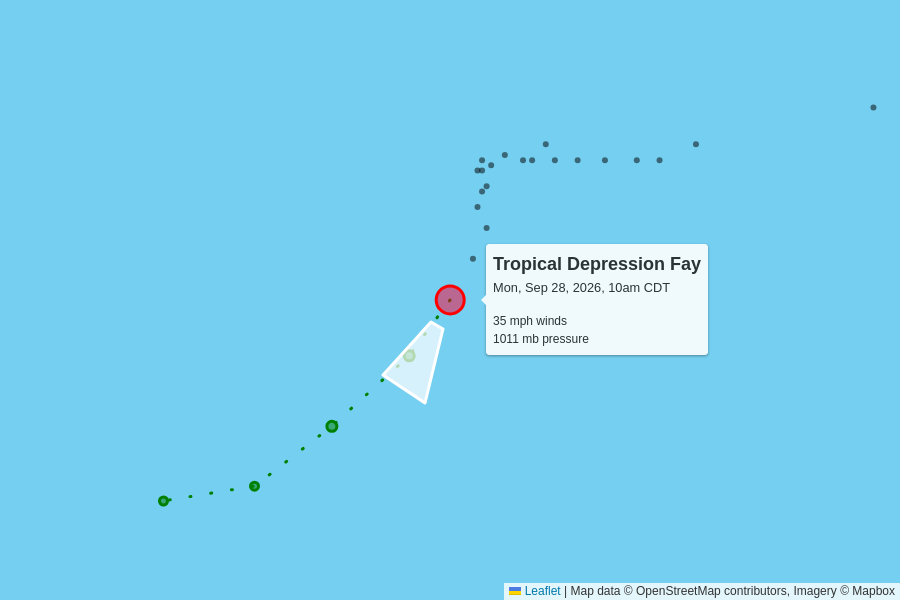
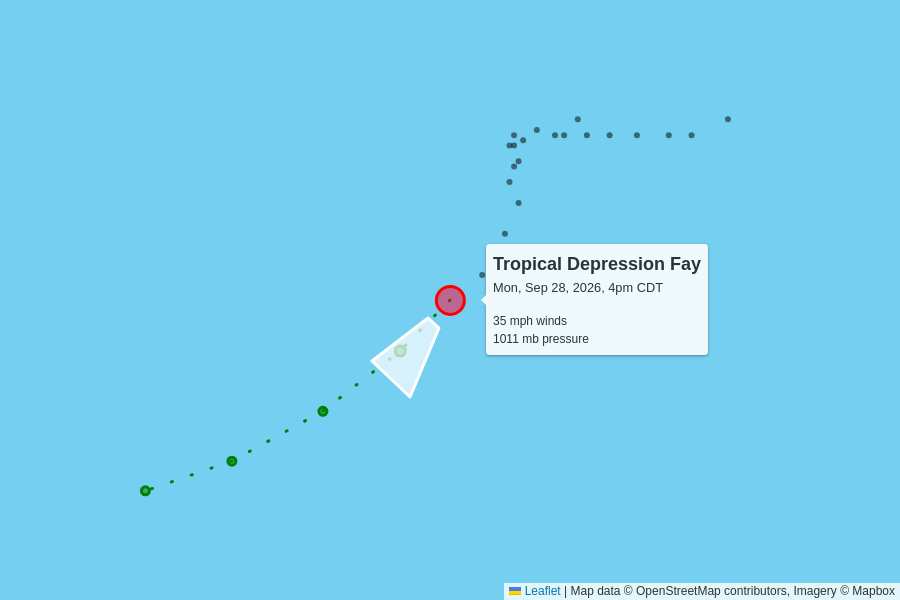
automatic update

diff --git a/docs/2026.html b/docs/2026.html
@@ -45,13 +45,13 @@
       <grid-container>
           <grid-row>
             <script type="text/json" id="storm_data_AL062026">
-              {"pressure":[{"timestamp":"2026-09-19T15:00:00.000Z","value":1009},{"timestamp":"2026-09-19T21:00:00.000Z","value":1007},{"timestamp":"2026-09-20T03:00:00.000Z","value":1007},{"timestamp":"2026-09-20T09:00:00.000Z","value":1004},{"timestamp":"2026-09-20T15:00:00.000Z","value":1004},{"timestamp":"2026-09-20T21:00:00.000Z","value":999},{"timestamp":"2026-09-21T03:00:00.000Z","value":995},{"timestamp":"2026-09-21T09:00:00.000Z","value":997},{"timestamp":"2026-09-21T15:00:00.000Z","value":1000},{"timestamp":"2026-09-21T21:00:00.000Z","value":1004},{"timestamp":"2026-09-22T03:00:00.000Z","value":1008},{"timestamp":"2026-09-22T09:00:00.000Z","value":1009},{"timestamp":"2026-09-22T15:00:00.000Z","value":1010},{"timestamp":"2026-09-22T21:00:00.000Z","value":1011},{"timestamp":"2026-09-23T21:00:00.000Z","value":1011},{"timestamp":"2026-09-24T03:00:00.000Z","value":1010},{"timestamp":"2026-09-24T09:00:00.000Z","value":1010},{"timestamp":"2026-09-24T15:00:00.000Z","value":1005},{"timestamp":"2026-09-24T21:00:00.000Z","value":1005},{"timestamp":"2026-09-25T03:00:00.000Z","value":1005},{"timestamp":"2026-09-25T09:00:00.000Z","value":1004},{"timestamp":"2026-09-25T15:00:00.000Z","value":1002},{"timestamp":"2026-09-25T21:00:00.000Z","value":1004},{"timestamp":"2026-09-26T03:00:00.000Z","value":1006},{"timestamp":"2026-09-26T09:00:00.000Z","value":1009},{"timestamp":"2026-09-26T15:00:00.000Z","value":1009},{"timestamp":"2026-09-26T21:00:00.000Z","value":1009},{"timestamp":"2026-09-27T03:00:00.000Z","value":1010},{"timestamp":"2026-09-27T09:00:00.000Z","value":1010},{"timestamp":"2026-09-27T15:00:00.000Z","value":1010},{"timestamp":"2026-09-27T21:00:00.000Z","value":1011},{"timestamp":"2026-09-28T03:00:00.000Z","value":1012},{"timestamp":"2026-09-28T09:00:00.000Z","value":1012},{"timestamp":"2026-09-28T15:00:00.000Z","value":1011}],"wind":[{"timestamp":"2026-09-19T15:00:00.000Z","value":35},{"timestamp":"2026-09-19T21:00:00.000Z","value":35},{"timestamp":"2026-09-20T03:00:00.000Z","value":35},{"timestamp":"2026-09-20T09:00:00.000Z","value":45},{"timestamp":"2026-09-20T15:00:00.000Z","value":60},{"timestamp":"2026-09-20T21:00:00.000Z","value":65},{"timestamp":"2026-09-21T03:00:00.000Z","value":70},{"timestamp":"2026-09-21T09:00:00.000Z","value":65},{"timestamp":"2026-09-21T15:00:00.000Z","value":50},{"timestamp":"2026-09-21T21:00:00.000Z","value":45},{"timestamp":"2026-09-22T03:00:00.000Z","value":40},{"timestamp":"2026-09-22T09:00:00.000Z","value":40},{"timestamp":"2026-09-22T15:00:00.000Z","value":35},{"timestamp":"2026-09-22T21:00:00.000Z","value":35},{"timestamp":"2026-09-23T21:00:00.000Z","value":35},{"timestamp":"2026-09-24T03:00:00.000Z","value":40},{"timestamp":"2026-09-24T09:00:00.000Z","value":40},{"timestamp":"2026-09-24T15:00:00.000Z","value":50},{"timestamp":"2026-09-24T21:00:00.000Z","value":50},{"timestamp":"2026-09-25T03:00:00.000Z","value":50},{"timestamp":"2026-09-25T09:00:00.000Z","value":50},{"timestamp":"2026-09-25T15:00:00.000Z","value":60},{"timestamp":"2026-09-25T21:00:00.000Z","value":50},{"timestamp":"2026-09-26T03:00:00.000Z","value":40},{"timestamp":"2026-09-26T09:00:00.000Z","value":35},{"timestamp":"2026-09-26T15:00:00.000Z","value":35},{"timestamp":"2026-09-26T21:00:00.000Z","value":35},{"timestamp":"2026-09-27T03:00:00.000Z","value":35},{"timestamp":"2026-09-27T09:00:00.000Z","value":35},{"timestamp":"2026-09-27T15:00:00.000Z","value":35},{"timestamp":"2026-09-27T21:00:00.000Z","value":35},{"timestamp":"2026-09-28T03:00:00.000Z","value":30},{"timestamp":"2026-09-28T09:00:00.000Z","value":35},{"timestamp":"2026-09-28T15:00:00.000Z","value":35}]}
+              {"pressure":[{"timestamp":"2026-09-19T15:00:00.000Z","value":1009},{"timestamp":"2026-09-19T21:00:00.000Z","value":1007},{"timestamp":"2026-09-20T03:00:00.000Z","value":1007},{"timestamp":"2026-09-20T09:00:00.000Z","value":1004},{"timestamp":"2026-09-20T15:00:00.000Z","value":1004},{"timestamp":"2026-09-20T21:00:00.000Z","value":999},{"timestamp":"2026-09-21T03:00:00.000Z","value":995},{"timestamp":"2026-09-21T09:00:00.000Z","value":997},{"timestamp":"2026-09-21T15:00:00.000Z","value":1000},{"timestamp":"2026-09-21T21:00:00.000Z","value":1004},{"timestamp":"2026-09-22T03:00:00.000Z","value":1008},{"timestamp":"2026-09-22T09:00:00.000Z","value":1009},{"timestamp":"2026-09-22T15:00:00.000Z","value":1010},{"timestamp":"2026-09-22T21:00:00.000Z","value":1011},{"timestamp":"2026-09-23T21:00:00.000Z","value":1011},{"timestamp":"2026-09-24T03:00:00.000Z","value":1010},{"timestamp":"2026-09-24T09:00:00.000Z","value":1010},{"timestamp":"2026-09-24T15:00:00.000Z","value":1005},{"timestamp":"2026-09-24T21:00:00.000Z","value":1005},{"timestamp":"2026-09-25T03:00:00.000Z","value":1005},{"timestamp":"2026-09-25T09:00:00.000Z","value":1004},{"timestamp":"2026-09-25T15:00:00.000Z","value":1002},{"timestamp":"2026-09-25T21:00:00.000Z","value":1004},{"timestamp":"2026-09-26T03:00:00.000Z","value":1006},{"timestamp":"2026-09-26T09:00:00.000Z","value":1009},{"timestamp":"2026-09-26T15:00:00.000Z","value":1009},{"timestamp":"2026-09-26T21:00:00.000Z","value":1009},{"timestamp":"2026-09-27T03:00:00.000Z","value":1010},{"timestamp":"2026-09-27T09:00:00.000Z","value":1010},{"timestamp":"2026-09-27T15:00:00.000Z","value":1010},{"timestamp":"2026-09-27T21:00:00.000Z","value":1011},{"timestamp":"2026-09-28T03:00:00.000Z","value":1012},{"timestamp":"2026-09-28T09:00:00.000Z","value":1012},{"timestamp":"2026-09-28T15:00:00.000Z","value":1011},{"timestamp":"2026-09-28T21:00:00.000Z","value":1011}],"wind":[{"timestamp":"2026-09-19T15:00:00.000Z","value":35},{"timestamp":"2026-09-19T21:00:00.000Z","value":35},{"timestamp":"2026-09-20T03:00:00.000Z","value":35},{"timestamp":"2026-09-20T09:00:00.000Z","value":45},{"timestamp":"2026-09-20T15:00:00.000Z","value":60},{"timestamp":"2026-09-20T21:00:00.000Z","value":65},{"timestamp":"2026-09-21T03:00:00.000Z","value":70},{"timestamp":"2026-09-21T09:00:00.000Z","value":65},{"timestamp":"2026-09-21T15:00:00.000Z","value":50},{"timestamp":"2026-09-21T21:00:00.000Z","value":45},{"timestamp":"2026-09-22T03:00:00.000Z","value":40},{"timestamp":"2026-09-22T09:00:00.000Z","value":40},{"timestamp":"2026-09-22T15:00:00.000Z","value":35},{"timestamp":"2026-09-22T21:00:00.000Z","value":35},{"timestamp":"2026-09-23T21:00:00.000Z","value":35},{"timestamp":"2026-09-24T03:00:00.000Z","value":40},{"timestamp":"2026-09-24T09:00:00.000Z","value":40},{"timestamp":"2026-09-24T15:00:00.000Z","value":50},{"timestamp":"2026-09-24T21:00:00.000Z","value":50},{"timestamp":"2026-09-25T03:00:00.000Z","value":50},{"timestamp":"2026-09-25T09:00:00.000Z","value":50},{"timestamp":"2026-09-25T15:00:00.000Z","value":60},{"timestamp":"2026-09-25T21:00:00.000Z","value":50},{"timestamp":"2026-09-26T03:00:00.000Z","value":40},{"timestamp":"2026-09-26T09:00:00.000Z","value":35},{"timestamp":"2026-09-26T15:00:00.000Z","value":35},{"timestamp":"2026-09-26T21:00:00.000Z","value":35},{"timestamp":"2026-09-27T03:00:00.000Z","value":35},{"timestamp":"2026-09-27T09:00:00.000Z","value":35},{"timestamp":"2026-09-27T15:00:00.000Z","value":35},{"timestamp":"2026-09-27T21:00:00.000Z","value":35},{"timestamp":"2026-09-28T03:00:00.000Z","value":30},{"timestamp":"2026-09-28T09:00:00.000Z","value":35},{"timestamp":"2026-09-28T15:00:00.000Z","value":35},{"timestamp":"2026-09-28T21:00:00.000Z","value":35}]}
             </script>              <grid-container class="storm">
                 <grid-row onClick="toggle('storm_AL062026')">
                   <h2>
                     Tropical Depression Fay
                     <div class="updated">
-                      last updated <time datetime="2026-09-28T15:00:00.000Z">2026-09-28T15:00:00.000Z</time>
+                      last updated <time datetime="2026-09-28T21:00:00.000Z">2026-09-28T21:00:00.000Z</time>
                     </div>
                   </h2>
                 </grid-row>
@@ -74,12 +74,12 @@
                         <td>
                           1011 mb
                           <br>
-                          -1 mb since last update
+                          0 mb since last update
                         </td>
                         <td>
-                          9 mph to the south-southwest
+                          9 mph to the southwest
                           <br>
-                          <span style="display: inline-block; font-size: 1.5em; transform: rotate(210deg);">↑</span>
+                          <span style="display: inline-block; font-size: 1.5em; transform: rotate(220deg);">↑</span>
                         </td>
                         <td>
                           <a href="https://raw.githubusercontent.com/mgwalker/atlantic-hurricanes/main/data/csv/AL062026.csv">AL062026.csv</a>
@@ -134,13 +134,13 @@
               </grid-container>          </grid-row>
           <grid-row>
             <script type="text/json" id="storm_data_AL082026">
-              {"pressure":[{"timestamp":"2026-09-28T15:00:00.000Z","value":1006}],"wind":[{"timestamp":"2026-09-28T15:00:00.000Z","value":45}]}
+              {"pressure":[{"timestamp":"2026-09-28T15:00:00.000Z","value":1006},{"timestamp":"2026-09-28T21:00:00.000Z","value":1006}],"wind":[{"timestamp":"2026-09-28T15:00:00.000Z","value":45},{"timestamp":"2026-09-28T21:00:00.000Z","value":45}]}
             </script>              <grid-container class="storm">
                 <grid-row onClick="toggle('storm_AL082026')">
                   <h2>
                     Tropical Storm Hanna
                     <div class="updated">
-                      last updated <time datetime="2026-09-28T15:00:00.000Z">2026-09-28T15:00:00.000Z</time>
+                      last updated <time datetime="2026-09-28T21:00:00.000Z">2026-09-28T21:00:00.000Z</time>
                     </div>
                   </h2>
                 </grid-row>
@@ -158,17 +158,17 @@
                         <td>
                           45 mph
                           <br>
-                          
+                          0 mph since last update
                         </td>
                         <td>
                           1006 mb
                           <br>
-                          
+                          0 mb since last update
                         </td>
                         <td>
-                          17 mph to the east
+                          17 mph to the east-southeast
                           <br>
-                          <span style="display: inline-block; font-size: 1.5em; transform: rotate(100deg);">↑</span>
+                          <span style="display: inline-block; font-size: 1.5em; transform: rotate(115deg);">↑</span>
                         </td>
                         <td>
                           <a href="https://raw.githubusercontent.com/mgwalker/atlantic-hurricanes/main/data/csv/AL082026.csv">AL082026.csv</a>

diff --git a/docs/index.html b/docs/index.html
@@ -45,13 +45,13 @@
       <grid-container>
           <grid-row>
             <script type="text/json" id="storm_data_AL062026">
-              {"pressure":[{"timestamp":"2026-09-19T15:00:00.000Z","value":1009},{"timestamp":"2026-09-19T21:00:00.000Z","value":1007},{"timestamp":"2026-09-20T03:00:00.000Z","value":1007},{"timestamp":"2026-09-20T09:00:00.000Z","value":1004},{"timestamp":"2026-09-20T15:00:00.000Z","value":1004},{"timestamp":"2026-09-20T21:00:00.000Z","value":999},{"timestamp":"2026-09-21T03:00:00.000Z","value":995},{"timestamp":"2026-09-21T09:00:00.000Z","value":997},{"timestamp":"2026-09-21T15:00:00.000Z","value":1000},{"timestamp":"2026-09-21T21:00:00.000Z","value":1004},{"timestamp":"2026-09-22T03:00:00.000Z","value":1008},{"timestamp":"2026-09-22T09:00:00.000Z","value":1009},{"timestamp":"2026-09-22T15:00:00.000Z","value":1010},{"timestamp":"2026-09-22T21:00:00.000Z","value":1011},{"timestamp":"2026-09-23T21:00:00.000Z","value":1011},{"timestamp":"2026-09-24T03:00:00.000Z","value":1010},{"timestamp":"2026-09-24T09:00:00.000Z","value":1010},{"timestamp":"2026-09-24T15:00:00.000Z","value":1005},{"timestamp":"2026-09-24T21:00:00.000Z","value":1005},{"timestamp":"2026-09-25T03:00:00.000Z","value":1005},{"timestamp":"2026-09-25T09:00:00.000Z","value":1004},{"timestamp":"2026-09-25T15:00:00.000Z","value":1002},{"timestamp":"2026-09-25T21:00:00.000Z","value":1004},{"timestamp":"2026-09-26T03:00:00.000Z","value":1006},{"timestamp":"2026-09-26T09:00:00.000Z","value":1009},{"timestamp":"2026-09-26T15:00:00.000Z","value":1009},{"timestamp":"2026-09-26T21:00:00.000Z","value":1009},{"timestamp":"2026-09-27T03:00:00.000Z","value":1010},{"timestamp":"2026-09-27T09:00:00.000Z","value":1010},{"timestamp":"2026-09-27T15:00:00.000Z","value":1010},{"timestamp":"2026-09-27T21:00:00.000Z","value":1011},{"timestamp":"2026-09-28T03:00:00.000Z","value":1012},{"timestamp":"2026-09-28T09:00:00.000Z","value":1012},{"timestamp":"2026-09-28T15:00:00.000Z","value":1011}],"wind":[{"timestamp":"2026-09-19T15:00:00.000Z","value":35},{"timestamp":"2026-09-19T21:00:00.000Z","value":35},{"timestamp":"2026-09-20T03:00:00.000Z","value":35},{"timestamp":"2026-09-20T09:00:00.000Z","value":45},{"timestamp":"2026-09-20T15:00:00.000Z","value":60},{"timestamp":"2026-09-20T21:00:00.000Z","value":65},{"timestamp":"2026-09-21T03:00:00.000Z","value":70},{"timestamp":"2026-09-21T09:00:00.000Z","value":65},{"timestamp":"2026-09-21T15:00:00.000Z","value":50},{"timestamp":"2026-09-21T21:00:00.000Z","value":45},{"timestamp":"2026-09-22T03:00:00.000Z","value":40},{"timestamp":"2026-09-22T09:00:00.000Z","value":40},{"timestamp":"2026-09-22T15:00:00.000Z","value":35},{"timestamp":"2026-09-22T21:00:00.000Z","value":35},{"timestamp":"2026-09-23T21:00:00.000Z","value":35},{"timestamp":"2026-09-24T03:00:00.000Z","value":40},{"timestamp":"2026-09-24T09:00:00.000Z","value":40},{"timestamp":"2026-09-24T15:00:00.000Z","value":50},{"timestamp":"2026-09-24T21:00:00.000Z","value":50},{"timestamp":"2026-09-25T03:00:00.000Z","value":50},{"timestamp":"2026-09-25T09:00:00.000Z","value":50},{"timestamp":"2026-09-25T15:00:00.000Z","value":60},{"timestamp":"2026-09-25T21:00:00.000Z","value":50},{"timestamp":"2026-09-26T03:00:00.000Z","value":40},{"timestamp":"2026-09-26T09:00:00.000Z","value":35},{"timestamp":"2026-09-26T15:00:00.000Z","value":35},{"timestamp":"2026-09-26T21:00:00.000Z","value":35},{"timestamp":"2026-09-27T03:00:00.000Z","value":35},{"timestamp":"2026-09-27T09:00:00.000Z","value":35},{"timestamp":"2026-09-27T15:00:00.000Z","value":35},{"timestamp":"2026-09-27T21:00:00.000Z","value":35},{"timestamp":"2026-09-28T03:00:00.000Z","value":30},{"timestamp":"2026-09-28T09:00:00.000Z","value":35},{"timestamp":"2026-09-28T15:00:00.000Z","value":35}]}
+              {"pressure":[{"timestamp":"2026-09-19T15:00:00.000Z","value":1009},{"timestamp":"2026-09-19T21:00:00.000Z","value":1007},{"timestamp":"2026-09-20T03:00:00.000Z","value":1007},{"timestamp":"2026-09-20T09:00:00.000Z","value":1004},{"timestamp":"2026-09-20T15:00:00.000Z","value":1004},{"timestamp":"2026-09-20T21:00:00.000Z","value":999},{"timestamp":"2026-09-21T03:00:00.000Z","value":995},{"timestamp":"2026-09-21T09:00:00.000Z","value":997},{"timestamp":"2026-09-21T15:00:00.000Z","value":1000},{"timestamp":"2026-09-21T21:00:00.000Z","value":1004},{"timestamp":"2026-09-22T03:00:00.000Z","value":1008},{"timestamp":"2026-09-22T09:00:00.000Z","value":1009},{"timestamp":"2026-09-22T15:00:00.000Z","value":1010},{"timestamp":"2026-09-22T21:00:00.000Z","value":1011},{"timestamp":"2026-09-23T21:00:00.000Z","value":1011},{"timestamp":"2026-09-24T03:00:00.000Z","value":1010},{"timestamp":"2026-09-24T09:00:00.000Z","value":1010},{"timestamp":"2026-09-24T15:00:00.000Z","value":1005},{"timestamp":"2026-09-24T21:00:00.000Z","value":1005},{"timestamp":"2026-09-25T03:00:00.000Z","value":1005},{"timestamp":"2026-09-25T09:00:00.000Z","value":1004},{"timestamp":"2026-09-25T15:00:00.000Z","value":1002},{"timestamp":"2026-09-25T21:00:00.000Z","value":1004},{"timestamp":"2026-09-26T03:00:00.000Z","value":1006},{"timestamp":"2026-09-26T09:00:00.000Z","value":1009},{"timestamp":"2026-09-26T15:00:00.000Z","value":1009},{"timestamp":"2026-09-26T21:00:00.000Z","value":1009},{"timestamp":"2026-09-27T03:00:00.000Z","value":1010},{"timestamp":"2026-09-27T09:00:00.000Z","value":1010},{"timestamp":"2026-09-27T15:00:00.000Z","value":1010},{"timestamp":"2026-09-27T21:00:00.000Z","value":1011},{"timestamp":"2026-09-28T03:00:00.000Z","value":1012},{"timestamp":"2026-09-28T09:00:00.000Z","value":1012},{"timestamp":"2026-09-28T15:00:00.000Z","value":1011},{"timestamp":"2026-09-28T21:00:00.000Z","value":1011}],"wind":[{"timestamp":"2026-09-19T15:00:00.000Z","value":35},{"timestamp":"2026-09-19T21:00:00.000Z","value":35},{"timestamp":"2026-09-20T03:00:00.000Z","value":35},{"timestamp":"2026-09-20T09:00:00.000Z","value":45},{"timestamp":"2026-09-20T15:00:00.000Z","value":60},{"timestamp":"2026-09-20T21:00:00.000Z","value":65},{"timestamp":"2026-09-21T03:00:00.000Z","value":70},{"timestamp":"2026-09-21T09:00:00.000Z","value":65},{"timestamp":"2026-09-21T15:00:00.000Z","value":50},{"timestamp":"2026-09-21T21:00:00.000Z","value":45},{"timestamp":"2026-09-22T03:00:00.000Z","value":40},{"timestamp":"2026-09-22T09:00:00.000Z","value":40},{"timestamp":"2026-09-22T15:00:00.000Z","value":35},{"timestamp":"2026-09-22T21:00:00.000Z","value":35},{"timestamp":"2026-09-23T21:00:00.000Z","value":35},{"timestamp":"2026-09-24T03:00:00.000Z","value":40},{"timestamp":"2026-09-24T09:00:00.000Z","value":40},{"timestamp":"2026-09-24T15:00:00.000Z","value":50},{"timestamp":"2026-09-24T21:00:00.000Z","value":50},{"timestamp":"2026-09-25T03:00:00.000Z","value":50},{"timestamp":"2026-09-25T09:00:00.000Z","value":50},{"timestamp":"2026-09-25T15:00:00.000Z","value":60},{"timestamp":"2026-09-25T21:00:00.000Z","value":50},{"timestamp":"2026-09-26T03:00:00.000Z","value":40},{"timestamp":"2026-09-26T09:00:00.000Z","value":35},{"timestamp":"2026-09-26T15:00:00.000Z","value":35},{"timestamp":"2026-09-26T21:00:00.000Z","value":35},{"timestamp":"2026-09-27T03:00:00.000Z","value":35},{"timestamp":"2026-09-27T09:00:00.000Z","value":35},{"timestamp":"2026-09-27T15:00:00.000Z","value":35},{"timestamp":"2026-09-27T21:00:00.000Z","value":35},{"timestamp":"2026-09-28T03:00:00.000Z","value":30},{"timestamp":"2026-09-28T09:00:00.000Z","value":35},{"timestamp":"2026-09-28T15:00:00.000Z","value":35},{"timestamp":"2026-09-28T21:00:00.000Z","value":35}]}
             </script>              <grid-container class="storm">
                 <grid-row onClick="toggle('storm_AL062026')">
                   <h2>
                     Tropical Depression Fay
                     <div class="updated">
-                      last updated <time datetime="2026-09-28T15:00:00.000Z">2026-09-28T15:00:00.000Z</time>
+                      last updated <time datetime="2026-09-28T21:00:00.000Z">2026-09-28T21:00:00.000Z</time>
                     </div>
                   </h2>
                 </grid-row>
@@ -74,12 +74,12 @@
                         <td>
                           1011 mb
                           <br>
-                          -1 mb since last update
+                          0 mb since last update
                         </td>
                         <td>
-                          9 mph to the south-southwest
+                          9 mph to the southwest
                           <br>
-                          <span style="display: inline-block; font-size: 1.5em; transform: rotate(210deg);">↑</span>
+                          <span style="display: inline-block; font-size: 1.5em; transform: rotate(220deg);">↑</span>
                         </td>
                         <td>
                           <a href="https://raw.githubusercontent.com/mgwalker/atlantic-hurricanes/main/data/csv/AL062026.csv">AL062026.csv</a>
@@ -134,13 +134,13 @@
               </grid-container>          </grid-row>
           <grid-row>
             <script type="text/json" id="storm_data_AL082026">
-              {"pressure":[{"timestamp":"2026-09-28T15:00:00.000Z","value":1006}],"wind":[{"timestamp":"2026-09-28T15:00:00.000Z","value":45}]}
+              {"pressure":[{"timestamp":"2026-09-28T15:00:00.000Z","value":1006},{"timestamp":"2026-09-28T21:00:00.000Z","value":1006}],"wind":[{"timestamp":"2026-09-28T15:00:00.000Z","value":45},{"timestamp":"2026-09-28T21:00:00.000Z","value":45}]}
             </script>              <grid-container class="storm">
                 <grid-row onClick="toggle('storm_AL082026')">
                   <h2>
                     Tropical Storm Hanna
                     <div class="updated">
-                      last updated <time datetime="2026-09-28T15:00:00.000Z">2026-09-28T15:00:00.000Z</time>
+                      last updated <time datetime="2026-09-28T21:00:00.000Z">2026-09-28T21:00:00.000Z</time>
                     </div>
                   </h2>
                 </grid-row>
@@ -158,17 +158,17 @@
                         <td>
                           45 mph
                           <br>
-                          
+                          0 mph since last update
                         </td>
                         <td>
                           1006 mb
                           <br>
-                          
+                          0 mb since last update
                         </td>
                         <td>
-                          17 mph to the east
+                          17 mph to the east-southeast
                           <br>
-                          <span style="display: inline-block; font-size: 1.5em; transform: rotate(100deg);">↑</span>
+                          <span style="display: inline-block; font-size: 1.5em; transform: rotate(115deg);">↑</span>
                         </td>
                         <td>
                           <a href="https://raw.githubusercontent.com/mgwalker/atlantic-hurricanes/main/data/csv/AL082026.csv">AL082026.csv</a>
